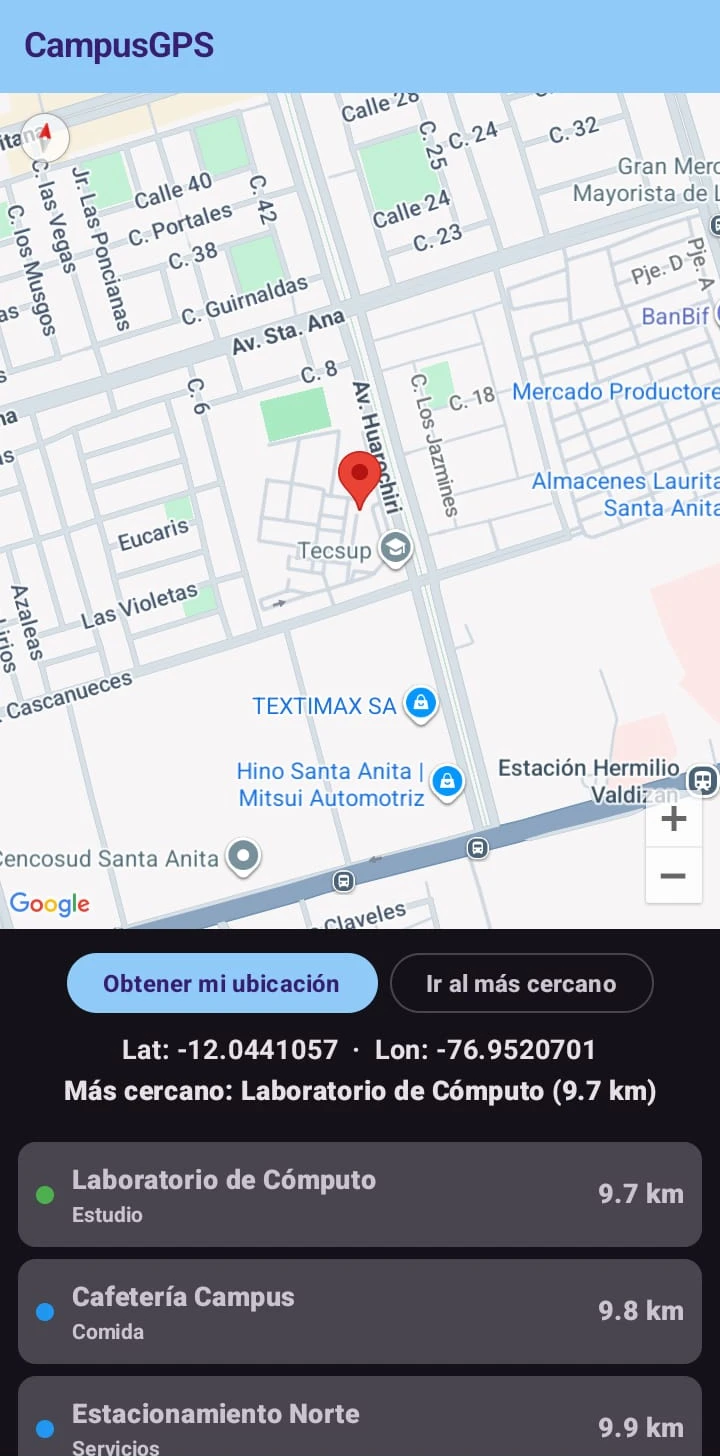
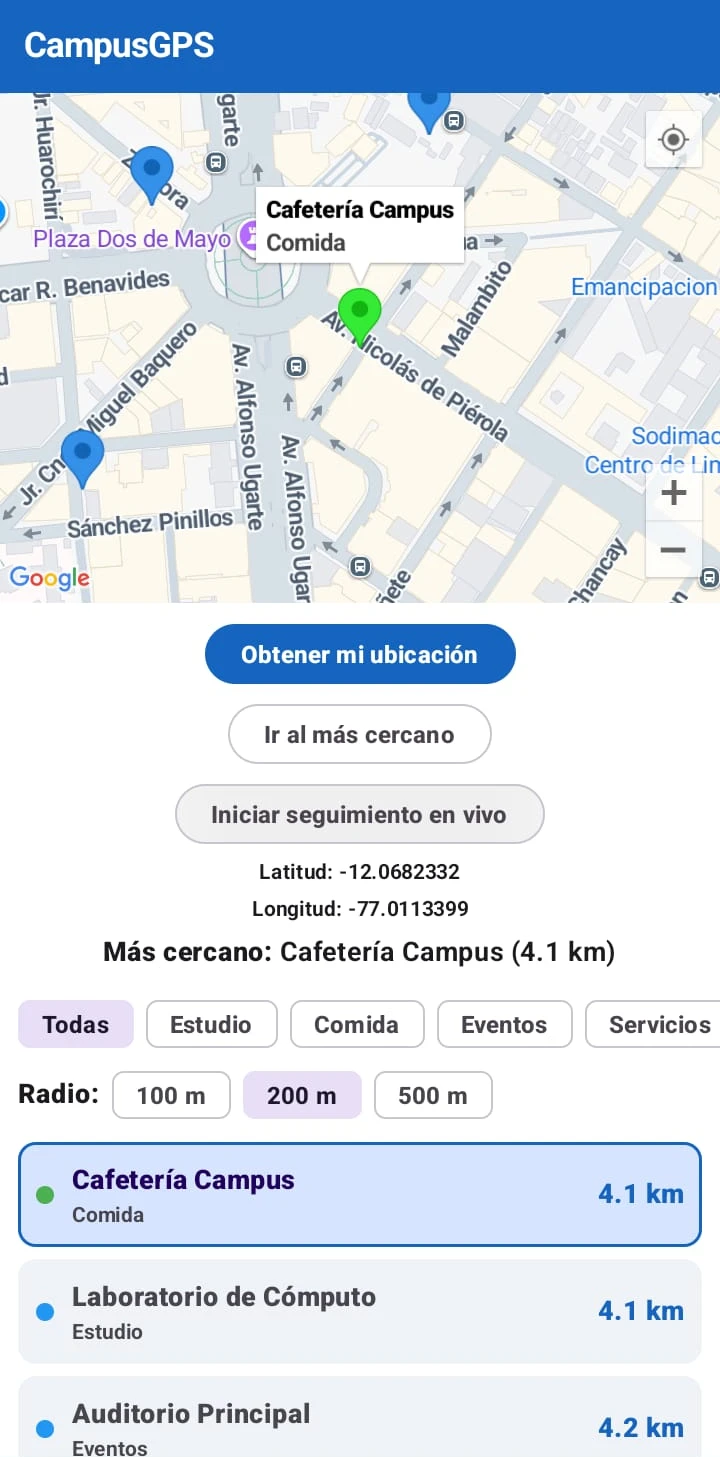
docs: agrega la fase 2 al README, capturas y PROMPTS.md

diff --git a/Semana13/PROMPTS.md b/Semana13/PROMPTS.md
@@ -9,6 +9,7 @@ Maps; la clave solo está en `local.properties`, que no se sube al repositorio.
 | «Agrega chips para filtrar los lugares por categoría (Estudio, Comida, Eventos, Servicios) en el mapa y en la lista.» | Propuso guardar la categoría elegida en el ViewModel y crear `lugaresVisibles` combinando la lista con la categoría (`combine`). La pantalla solo dibuja `FilterChip`. | Acepté la idea y además hice que el "más cercano" salga de los lugares filtrados, y que se quite la selección si el lugar elegido ya no se ve. Descarté filtrar la lista dentro del composable. | Filtrar es lógica: si lo hacía en la pantalla rompía MVVM. Así la vista solo muestra lo que recibe. |
 | «Agrega un selector de radio de 100, 200 o 500 m, un círculo alrededor de mi posición y marca en la lista los lugares que están dentro del radio.» | Propuso guardar el radio en el ViewModel, dibujar un `Circle` en el mapa y que la tarjeta compare `metros <= radio`. | Cambié la comparación: ahora el ViewModel expone `dentroDelRadio` (los ids que están dentro) y la tarjeta solo muestra "Dentro del radio". El círculo sale solo cuando ya hay ubicación. | La comparación dentro de la tarjeta era lógica en el composable. Con `dentroDelRadio` la regla queda en el ViewModel y se puede probar. |
 | «Activa el punto azul nativo del mapa y el botón de mi ubicación, solo si el permiso fue concedido.» | Propuso `MapProperties(isMyLocationEnabled = …)` y `MapUiSettings(myLocationButtonEnabled = …)` con un valor que diga si hay permiso. | Agregué que el permiso se vuelva a revisar al pulsar el botón, porque si el usuario lo da desde Ajustes la app no se enteraba. No pasé el `Context` al ViewModel: el permiso se revisa en la pantalla. | Activar el punto azul sin permiso hace que Google lance un error. El permiso es de Android y se pide desde la vista, como en el Paso 2. |
+| «Agrega seguimiento en vivo: que la ubicación se actualice mientras camino, con `requestLocationUpdates` convertido en un `Flow` y botones Iniciar / Detener.» | Propuso una función `seguirPosicion()` con `callbackFlow`, un `LocationCallback` que hace `trySend` de cada posición y `awaitClose` para quitar las actualizaciones; en el ViewModel, `collect` dentro de `viewModelScope.launch`. | Agregué `seguirPosicion()` a la interface `UbicacionRepository` para que el ViewModel no conozca Google. Guardé el `Job` para que Detener lo cancele, el estado `siguiendo` se apaga en un `finally` y la `CancellationException` se vuelve a lanzar. Pedí una posición cada 3 s solo si me moví 2 m. Si no hay permiso, el botón primero lo pide. | Si no se quitan las actualizaciones al detener, el GPS sigue prendido y gasta batería: eso lo hace `awaitClose`. Atrapar la cancelación como error mostraba un mensaje falso al pulsar Detener. |
 
 ## Qué aprendí
 

diff --git a/Semana13/README.md b/Semana13/README.md
@@ -36,6 +36,29 @@ distancia, ordenados del más cercano al más lejano.
 |---|---|
 | ![Lista](docs/capturas/04-lista.png) | ![Error](docs/capturas/05-error.png) |
 
+## Fase 2 · Mejoras con IA (rama MEJORA-IA)
+
+| Mejora | Qué hace | Capas |
+|---|---|---|
+| Diseño igual a la guía | Tema siempre claro, botones uno debajo del otro, distancia en azul y error sin mapa. | View |
+| Filtrar por categoría | Chips Todas, Estudio, Comida, Eventos y Servicios; el ViewModel filtra con `combine` y el mapa y la lista muestran solo esos lugares. | ViewModel + View |
+| Radio de cercanía | Chips de 100, 200 y 500 m; un `Circle` alrededor de tu posición y la etiqueta «Dentro del radio» en la lista. | ViewModel + View |
+| Punto azul nativo | `isMyLocationEnabled` y el botón de mi ubicación del mapa, solo si el permiso fue concedido. | View |
+| Seguimiento en vivo | `requestLocationUpdates` convertido en un `Flow` con `callbackFlow`; botones Iniciar / Detener seguimiento. | Repository + ViewModel + View |
+
+| Lista y selección | Radio y círculo | Seguimiento en vivo |
+|---|---|---|
+| ![Lista](docs/capturas/04-lista.png) | ![Radio](docs/capturas/06-radio-circulo.png) | ![Seguimiento](docs/capturas/07-seguimiento.png) |
+
+- **Lista y selección:** al tocar «Cafetería Campus» la tarjeta queda resaltada y el
+  mapa muestra su nombre. Arriba se ven los chips de categoría y de radio.
+- **Radio y círculo:** con 200 m elegido se dibuja el círculo azul alrededor de mi
+  posición.
+- **Seguimiento en vivo:** el botón cambia a «Detener seguimiento» y el mapa sigue mi
+  posición con el punto azul.
+
+Los prompts usados y qué cambié de cada respuesta están en [PROMPTS.md](PROMPTS.md).
+
 ## Estructura de paquetes
 
 ```text
@@ -44,7 +67,7 @@ com.sovero.campusgps/
 ├── model/
 │   └── Modelos.kt                    Posicion, Lugar, LugarConDistancia, UbicacionUi, TipoError
 ├── data/
-│   ├── UbicacionRepository.kt        interface (+ playServicesDisponible)
+│   ├── UbicacionRepository.kt        interface (+ playServicesDisponible, seguirPosicion)
 │   ├── UbicacionRepositoryGoogle.kt  implementación con FusedLocationProviderClient
 │   ├── LugaresRepository.kt          interface
 │   └── LugaresRepositoryLocal.kt     los 5 lugares ficticios
